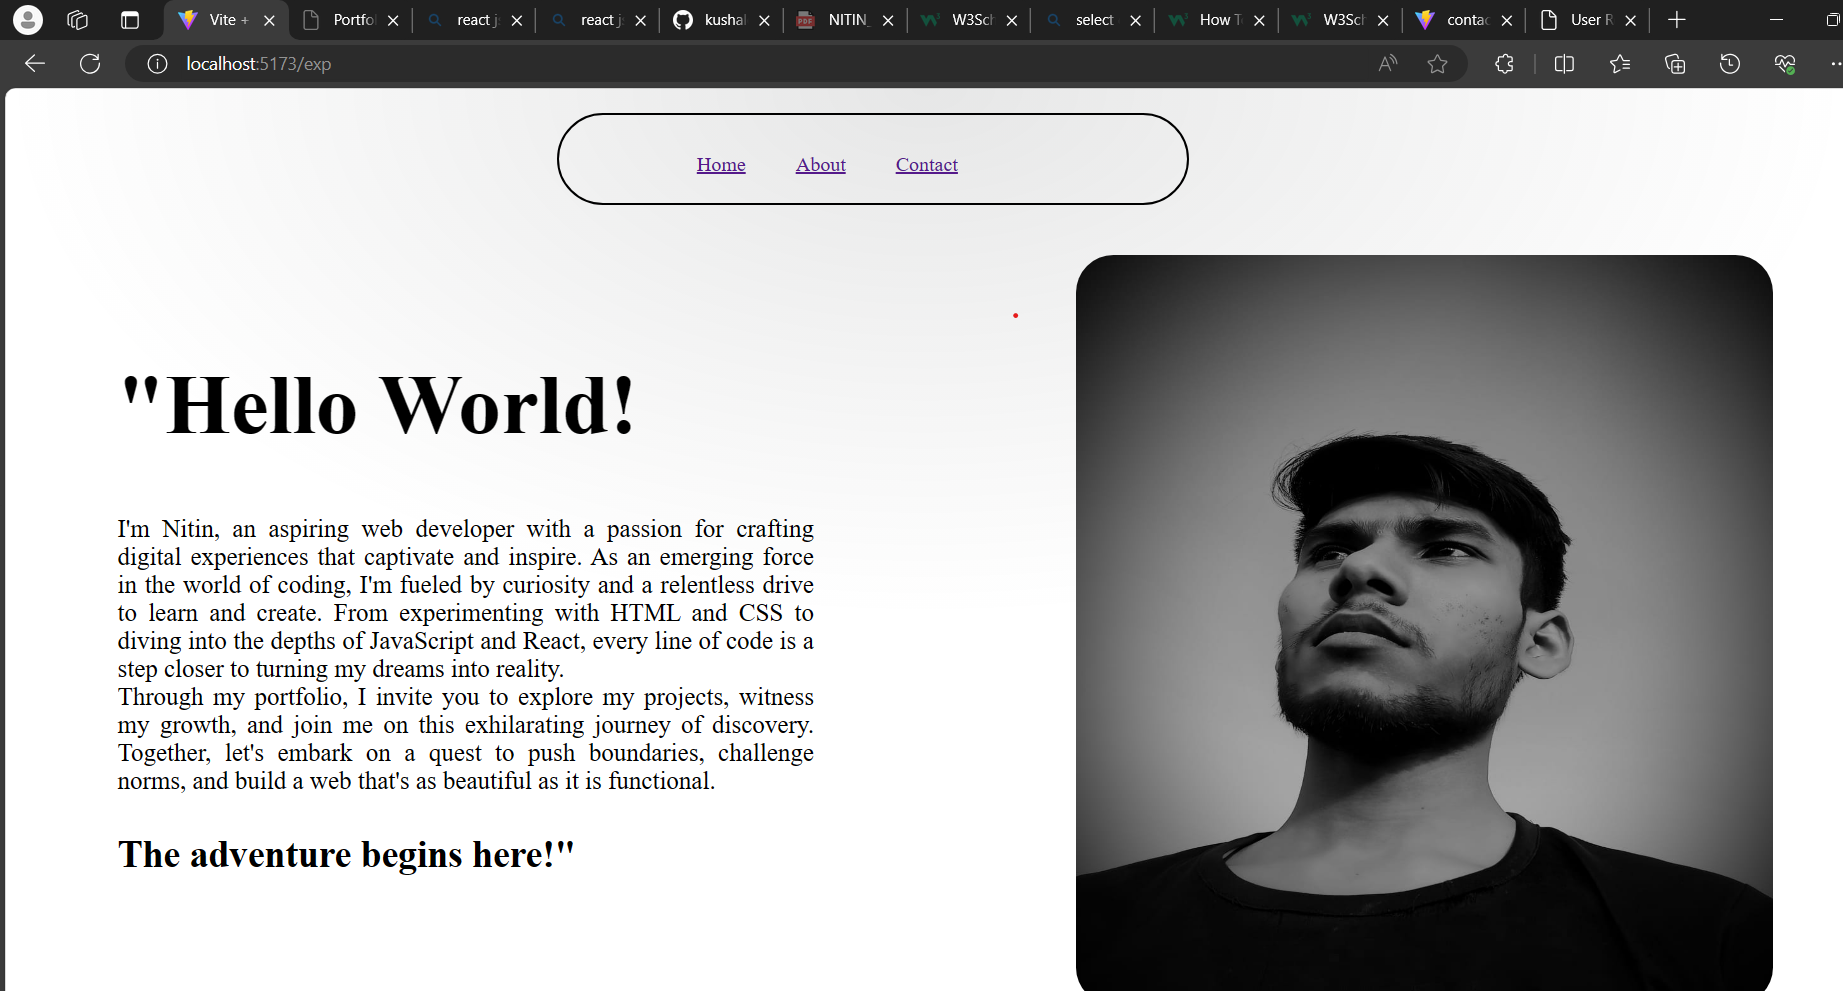
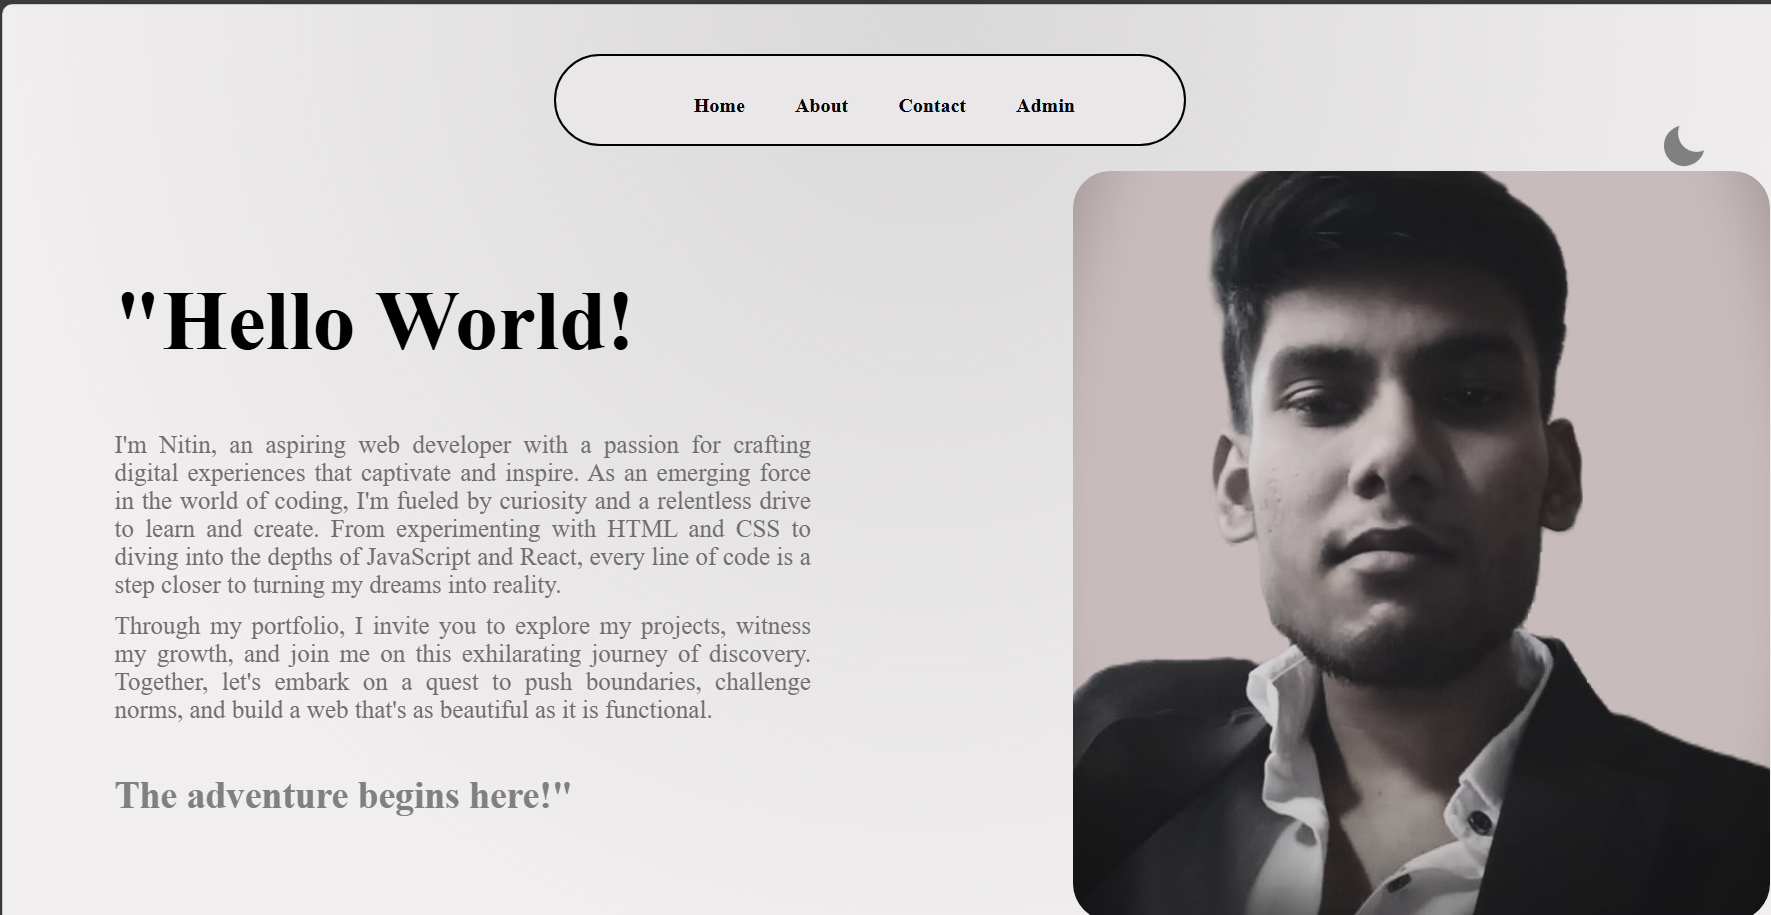
last

diff --git a/src/index.css b/src/index.css
@@ -6,8 +6,8 @@
 }
 
 [data-theme="light"]{
-  --background-color:white;
-  --box-background:rgb(249, 249, 249);
+  --background-color:rgb(240, 238, 238);
+  --box-background:rgb(233, 231, 231);
   --bordercolor:2px solid black;
   --colortext: #000;
   --colorborder: 2px solid rgb(214, 209, 209);
@@ -18,8 +18,8 @@
 }
 
 [data-theme="dark"]{
-  --background-color:rgb(27, 26, 26);
-  --box-background:rgb(40, 39, 39);
+  --background-color:rgb(46, 45, 45);
+  --box-background:rgb(51, 50, 50);
   --colortext: white;
   --colorp:rgb(238, 237, 237);
   --bordercolor: 2px solid rgb(80, 77, 77);
@@ -34,11 +34,13 @@
   margin-right: 50px;
   width: 10%;
 }
+
 body {
  
   background: radial-gradient(100% 50% at 50% 0%, rgba(64, 67, 68, 0.13) 0, rgba(233, 237, 240, 0) 50%, rgba(180, 120, 166, 0) 100%);
   background-color:var(--background-color); /* Fallback color */
 }
+
 #navbar{
   justify-content: space-between;
   margin-top: 20px;
@@ -897,15 +899,16 @@ text-align: center;
 
   @media only screen and (min-device-width: 320px) and (max-device-width: 480px) {
    
-    
-    #root{
-      margin: -30px;
+    body{
       margin-left: -60px;
+
+    }
+    #root{
+       align-items: center;
       padding: 0px;
-      box-sizing: border-box;
-      width: 100%;
       overflow: hidden;
     }
+
   #navbar{
     width: 57%;
     height: 4px;
@@ -930,6 +933,8 @@ text-align: center;
 
   #hero{
     flex-direction: row;
+    display: flex;
+    flex-wrap: wrap;
     
   }
   
@@ -938,15 +943,10 @@ text-align: center;
    
   }
   
-  .hero-heading h1{
-    font-size: 29px;
-   margin-right:0px;
-   margin-left: 0px;
-   margin-bottom: 10px;
-  }
-  
   .hero-heading p{
-    font-size: 20px;
+    font-size: 11px;
+    word-spacing: 0%;
+    text-wrap: wrap;
   }
   
   .hero-heading h2{
@@ -956,20 +956,22 @@ text-align: center;
   }
   
   .hero-img img{
-    
-    border-radius: 30px;
+    height: 400px;
+    padding: 0%;
+    gap: 0px;
+    margin-top: 0px;
+     width: 100%;
     object-fit: cover;
-    height: 500px;
-    margin: 0px;
-
-    width: 100%;
   }
   
   .hero-img{
     width: 100%;
-    margin: 0px;
-    border-radius: 10px;
+    overflow: hidden;
+  
+    border-radius: 20px;
    margin-left: 40px;
+   
+   
     
    
   }
@@ -980,9 +982,10 @@ text-align: center;
     
   }
   #about-outer{
-  margin-top: 100px;
-  padding: 50px;
-  width: 86%;
+  margin: 0px;
+  margin-left: calc(8% );
+  padding: 0px;
+  width: 90%;
   display: flex;
   flex-direction: column;
   height:900px;
@@ -990,7 +993,7 @@ text-align: center;
   }
   
   #abouth2{
-    margin-top: 90vh;
+   margin-top: calc(50%);
     margin-left: 60px;
    
   }
@@ -1049,11 +1052,13 @@ text-align: center;
       
       font-size: 15px;
       text-align: justify;
+      word-spacing: normal;
        }
 
   
   #nav{
     margin-top: -35px;
+    margin-left: calc(28% );
    width:35%;
   }
 
@@ -1079,7 +1084,7 @@ text-align: center;
   }
     
   #skill-div h3{
-    margin-left: 45%;
+    margin-left: calc(38%);
   }
   
   #exp{
@@ -1089,21 +1094,23 @@ text-align: center;
   }
   
   #exp h3{  
-  margin-left: 33%;
+   margin: calc(8%);
   }
   #exp h5{
-    margin-left: -20px;
+    margin-left: calc(-8% );
    }
   #exp p{
    font-size: 20px;
-   margin-left: -20px;
+   margin-left: calc(-8% );
   }
   
   
   #project-div{
    
     width: 100%;
-    margin-left: 0%;
+    margin-left: calc(-5% );
+   
+    padding: 0;
   }
   
   #project-box{
@@ -1124,6 +1131,7 @@ text-align: center;
   #project-box P{
    font-size: 15px;
    margin-top: 60px;
+   text-wrap: wrap;
   }
  
   #projecth2{
@@ -1134,18 +1142,22 @@ text-align: center;
 
  
    #contacth3 h3{
-    margin-left: 100px;
+    margin-left: 0;
    }
    #contacth3 h2{
    margin-top: 10px;
-   margin-left: 100px; 
+   
    }
    
    #contact{
     width: 100%;
-    padding: 20px;
-    margin-left: -100px;
   
+   }
+
+   #contactdiv{
+    width: 150%;
+    margin-left: calc(-8% );
+    
    }
 
    #contact-box{
@@ -1180,8 +1192,11 @@ text-align: center;
    }
 
 #contactf{
-  width: 100%;
-  margin-left: 130px;
+ overflow: hidden;
+ width: 100%;
+padding-left: 109px;
+
+
 }
    #form {
    

diff --git a/src/pages/Contact.jsx b/src/pages/Contact.jsx
@@ -53,7 +53,7 @@ function Contact() {
         <motion.h3 whileInView={{opacity:1,y:0}} initial={{opacity:0,y:-100}} transition={{duration:0.4,delay:0.3}} >GET In Touch</motion.h3>
         <motion.h2 whileInView={{opacity:1,y:0}} initial={{opacity:0,y:-100}} transition={{duration:0.4,delay:0.3}} >Contact Me</motion.h2>
         <div id='contact'>
-          <div>
+          <div id='contactdiv'>
             <motion.div id='contact-box' whileInView={{opacity:1,x:0}} initial={{opacity:0,x:-100}} transition={{duration:0.4,delay:0.3}} >
               <div >
                 <SiMinutemailer id='contactboxicon'></SiMinutemailer>

diff --git a/src/pages/Hero.jsx b/src/pages/Hero.jsx
@@ -27,7 +27,7 @@ function Hero() {
                     <motion.h2 variants={container(1.5)} initial="hidden" whileInView="visible">The adventure begins here!"</motion.h2>
                 </div>
                 <div className='hero-img'>
-                    <motion.img src='/g.jpg' alt="g"  initial={{y:-150 ,opacity:0}} whileInView={{ y: 0 ,opacity:1 }}   transition={{duration:0.6,delay:0.5}}/>
+                    <motion.img src='/g.jpg' alt="g"  initial={{x:200 ,opacity:0}} whileInView={{ x: 0 ,opacity:1 }}   transition={{duration:0.6,delay:0.5}}/>
                 </div>
             </div>
         </>
